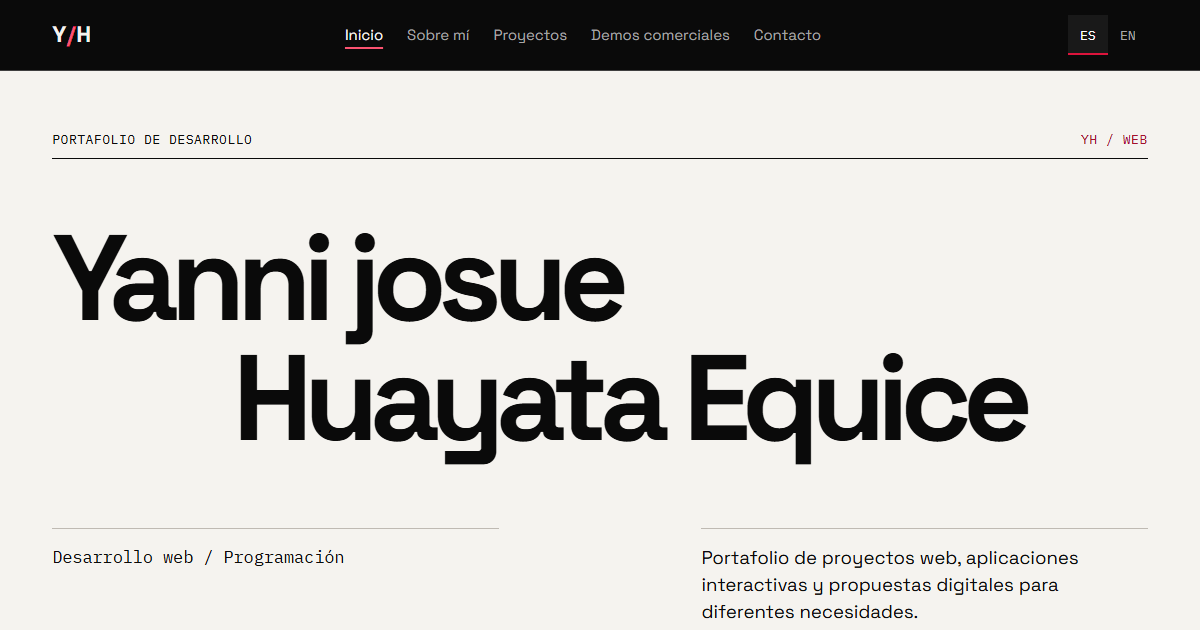
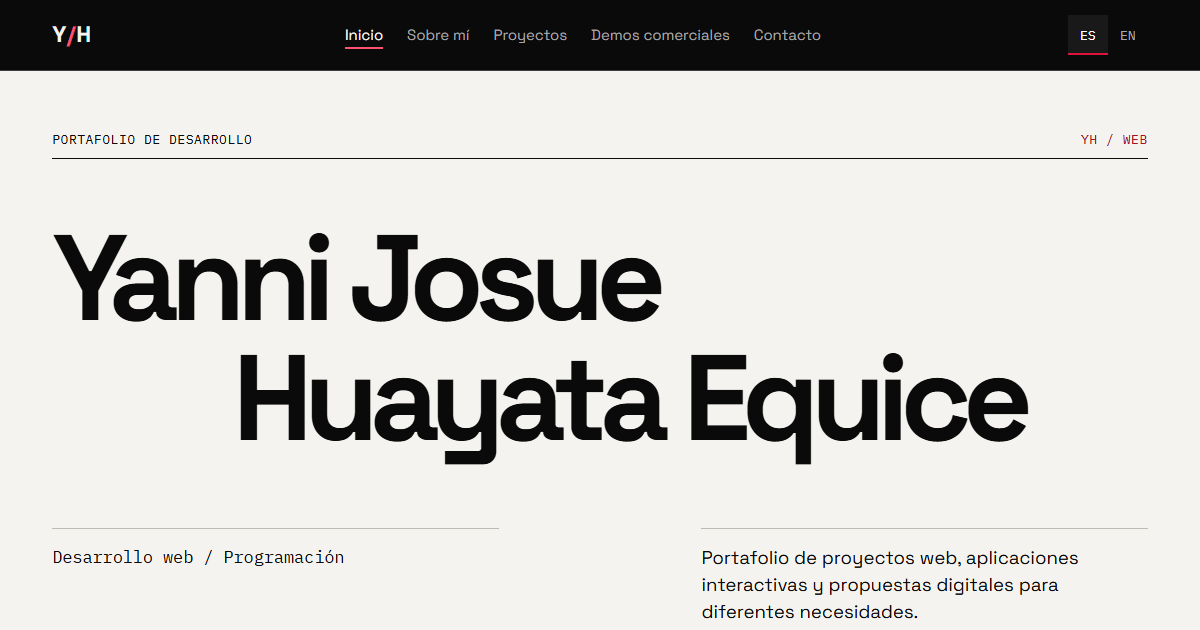
fix: corregir nombre en la web

Changed region(s): [[0.2775, 0.3619, 0.555, 0.5429]]

diff --git a/index.html b/index.html
@@ -5,32 +5,32 @@
   <meta name="viewport" content="width=device-width, initial-scale=1">
   <meta name="theme-color" content="#0a0a0a">
   <meta name="description" content="Portafolio de proyectos web, aplicaciones interactivas y propuestas digitales para diferentes necesidades.">
-  <title>Yanni josue Huayata Equice — Portafolio</title>
+  <title>Yanni Josue Huayata Equice — Portafolio</title>
   <meta name="robots" content="index, follow">
   <meta property="og:type" content="website">
   <meta property="og:site_name" content="Portafolio Developer Industrial">
   <meta property="og:locale" content="es_BO">
   <meta property="og:locale:alternate" content="en_US">
-  <meta property="og:title" content="Yanni josue Huayata Equice — Portafolio">
+  <meta property="og:title" content="Yanni Josue Huayata Equice — Portafolio">
   <meta property="og:description" content="Portafolio de proyectos web, aplicaciones interactivas y propuestas digitales para diferentes necesidades.">
-  <meta property="og:image" content="assets/images/social/portafolio.png?v=9">
+  <meta property="og:image" content="assets/images/social/portafolio.png?v=10">
   <meta property="og:image:type" content="image/png">
   <meta property="og:image:width" content="1200">
   <meta property="og:image:height" content="630">
-  <meta property="og:image:alt" content="Portada del portafolio con el nombre Yanni josue Huayata Equice">
+  <meta property="og:image:alt" content="Portada del portafolio con el nombre Yanni Josue Huayata Equice">
   <meta name="twitter:card" content="summary_large_image">
-  <meta name="twitter:image" content="assets/images/social/portafolio.png?v=9">
-  <meta name="twitter:image:alt" content="Portada del portafolio con el nombre Yanni josue Huayata Equice">
+  <meta name="twitter:image" content="assets/images/social/portafolio.png?v=10">
+  <meta name="twitter:image:alt" content="Portada del portafolio con el nombre Yanni Josue Huayata Equice">
   <link rel="icon" href="assets/icons/brand-mark.svg?v=8">
   <link rel="preload" as="font" href="assets/fonts/space-grotesk.woff2" type="font/woff2" crossorigin>
   <link rel="stylesheet" href="css/style.css?v=8">
-  <script src="js/script.js?v=9" defer></script>
+  <script src="js/script.js?v=10" defer></script>
 </head>
 <body>
   <a class="skip-link" href="#contenido"><span data-i18n="a11y.skip">Saltar al contenido</span></a>
   <header class="site-header">
     <nav class="nav wrap" id="nav" aria-label="Navegación principal" data-i18n-aria-label="nav.label">
-      <a class="brand" href="#inicio" aria-label="Yanni josue Huayata Equice"><span aria-hidden="true">Y<span class="brand-slash">/</span>H</span></a>
+      <a class="brand" href="#inicio" aria-label="Yanni Josue Huayata Equice"><span aria-hidden="true">Y<span class="brand-slash">/</span>H</span></a>
       <ul class="nav-links" id="nav-links"><li><a class="nav-link" href="#inicio" data-nav="inicio" aria-current="location"><span data-i18n="nav.inicio">Inicio</span></a></li>
 <li><a class="nav-link" href="#sobre-mi" data-nav="sobre-mi"><span data-i18n="nav.sobre-mi">Sobre mí</span></a></li>
 <li><a class="nav-link" href="#proyectos" data-nav="proyectos"><span data-i18n="nav.proyectos">Proyectos</span></a></li>
@@ -54,7 +54,7 @@
           <span data-i18n="hero.eyebrow">Portafolio de desarrollo</span>
           <span aria-hidden="true">YH / WEB</span>
         </div>
-        <h1 id="hero-title"><span><b>Yanni josue</b></span><span><b>Huayata Equice</b></span></h1>
+        <h1 id="hero-title"><span><b>Yanni Josue</b></span><span><b>Huayata Equice</b></span></h1>
         <div class="hero-role"><span data-i18n="hero.role">Desarrollo web / Programación</span></div>
         <div class="hero-detail">
           <p data-i18n="hero.body">Portafolio de proyectos web, aplicaciones interactivas y propuestas digitales para diferentes necesidades.</p>
@@ -73,7 +73,7 @@
         
       </header>
             <div class="about grid">
-        <div class="about-body"><p data-i18n="about.p1">Soy Yanni josue Huayata Equice, programador interesado en el desarrollo web y en la creación de soluciones digitales que combinen funcionalidad, diseño y facilidad de uso.</p>
+        <div class="about-body"><p data-i18n="about.p1">Soy Yanni Josue Huayata Equice, programador interesado en el desarrollo web y en la creación de soluciones digitales que combinen funcionalidad, diseño y facilidad de uso.</p>
 <p data-i18n="about.p2">Mi enfoque está orientado a construir páginas web organizadas, interactivas y adaptables a diferentes dispositivos, prestando especial atención a la estructura del código, la experiencia del usuario y los detalles visuales.</p>
 <p data-i18n="about.p3">A través de este portafolio presento diferentes proyectos y demostraciones que exploran las posibilidades del desarrollo web, desde aplicaciones interactivas hasta sitios orientados a restaurantes, comercios y catálogos digitales.</p>
 <p data-i18n="about.p4">Busco que cada proyecto tenga una identidad propia y responda a un propósito concreto, evitando diseños repetitivos y priorizando interfaces claras, accesibles y funcionales.</p>
@@ -238,7 +238,7 @@
         
       </header>
             <div class="contact grid">
-        <p class="contact-name">Yanni josue Huayata Equice</p>
+        <p class="contact-name">Yanni Josue Huayata Equice</p>
         <dl>
           <div><dt>GitHub</dt><dd><a class="address" href="https://github.com/toxintxt208-cyber">github.com/toxintxt208-cyber</a></dd></div>
           <div><dt><span data-i18n="contact.label">Correo</span></dt><dd><a class="address" id="contact-email" href="mailto:josue.equice@gmail.com">josue.equice@gmail.com</a></dd></div>
@@ -255,7 +255,7 @@
   </main>
   <footer class="site-footer">
     <div class="wrap">
-      <p>© <span id="year">2026</span> Yanni josue Huayata Equice</p>
+      <p>© <span id="year">2026</span> Yanni Josue Huayata Equice</p>
       <a class="text-link" href="#inicio"><span data-i18n="footer.top">Volver arriba</span><span class="arrow" aria-hidden="true">↑</span></a>
     </div>
   </footer>

diff --git a/js/script.js b/js/script.js
@@ -2,7 +2,7 @@
 
 const translations = {
   "es": {
-    "meta.title": "Yanni josue Huayata Equice — Portafolio",
+    "meta.title": "Yanni Josue Huayata Equice — Portafolio",
     "meta.description": "Portafolio de proyectos web, aplicaciones interactivas y propuestas digitales para diferentes necesidades.",
     "nav.openMenu": "Abrir menú",
     "nav.closeMenu": "Cerrar menú",
@@ -85,7 +85,7 @@ const translations = {
     "footer.top": "Volver arriba"
   },
   "en": {
-    "meta.title": "Yanni josue Huayata Equice — Portfolio",
+    "meta.title": "Yanni Josue Huayata Equice — Portfolio",
     "meta.description": "A portfolio of web projects, interactive applications and digital concepts for a range of needs.",
     "nav.openMenu": "Open menu",
     "nav.closeMenu": "Close menu",
@@ -98,7 +98,7 @@ const translations = {
     "nav.proyectos": "Projects",
     "nav.comerciales": "Business demos",
     "nav.contacto": "Contact",
-    "about.p1": "I’m Yanni josue Huayata Equice, a programmer interested in web development and in building digital tools that combine functionality, design and ease of use.",
+    "about.p1": "I’m Yanni Josue Huayata Equice, a programmer interested in web development and in building digital tools that combine functionality, design and ease of use.",
     "about.p2": "I focus on building well-structured, interactive websites that adapt to different devices. I pay close attention to how the code is organized, how people use the site and how the details look.",
     "about.p3": "This portfolio explores what the web can do through projects and demos ranging from interactive applications to sites for restaurants, shops and digital catalogs.",
     "about.p4": "I give each project its own identity and a specific purpose, with clear, accessible interfaces shaped by what people need to do.",
